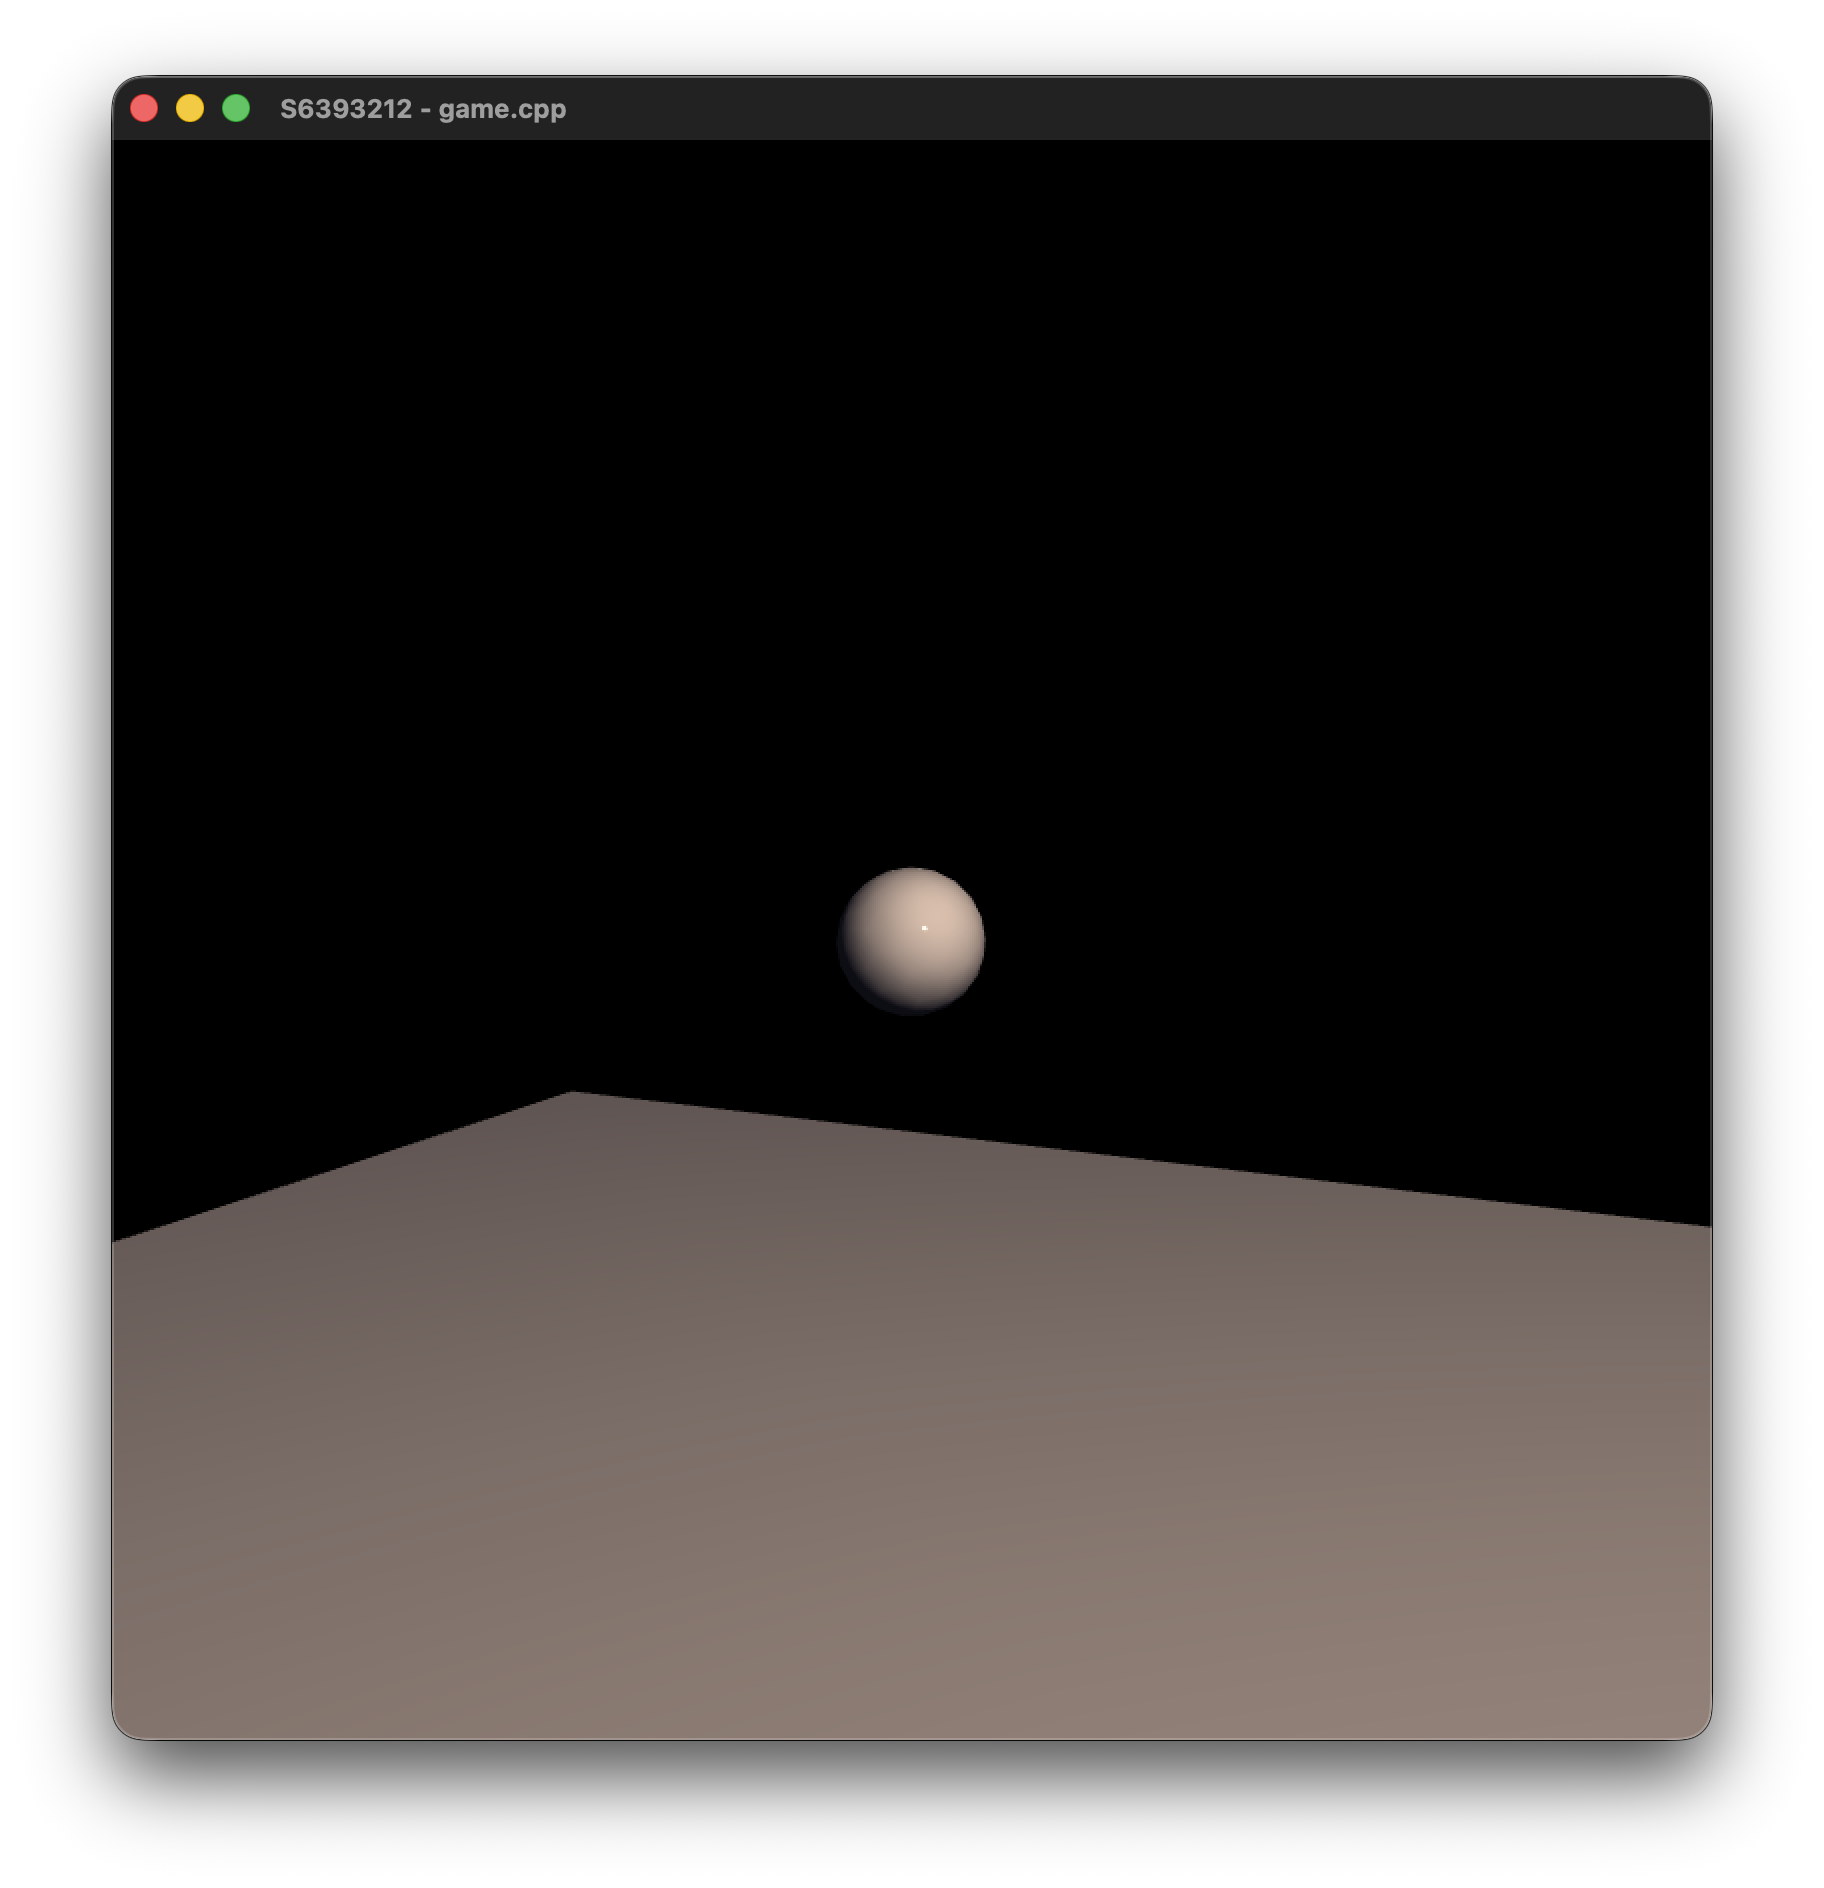
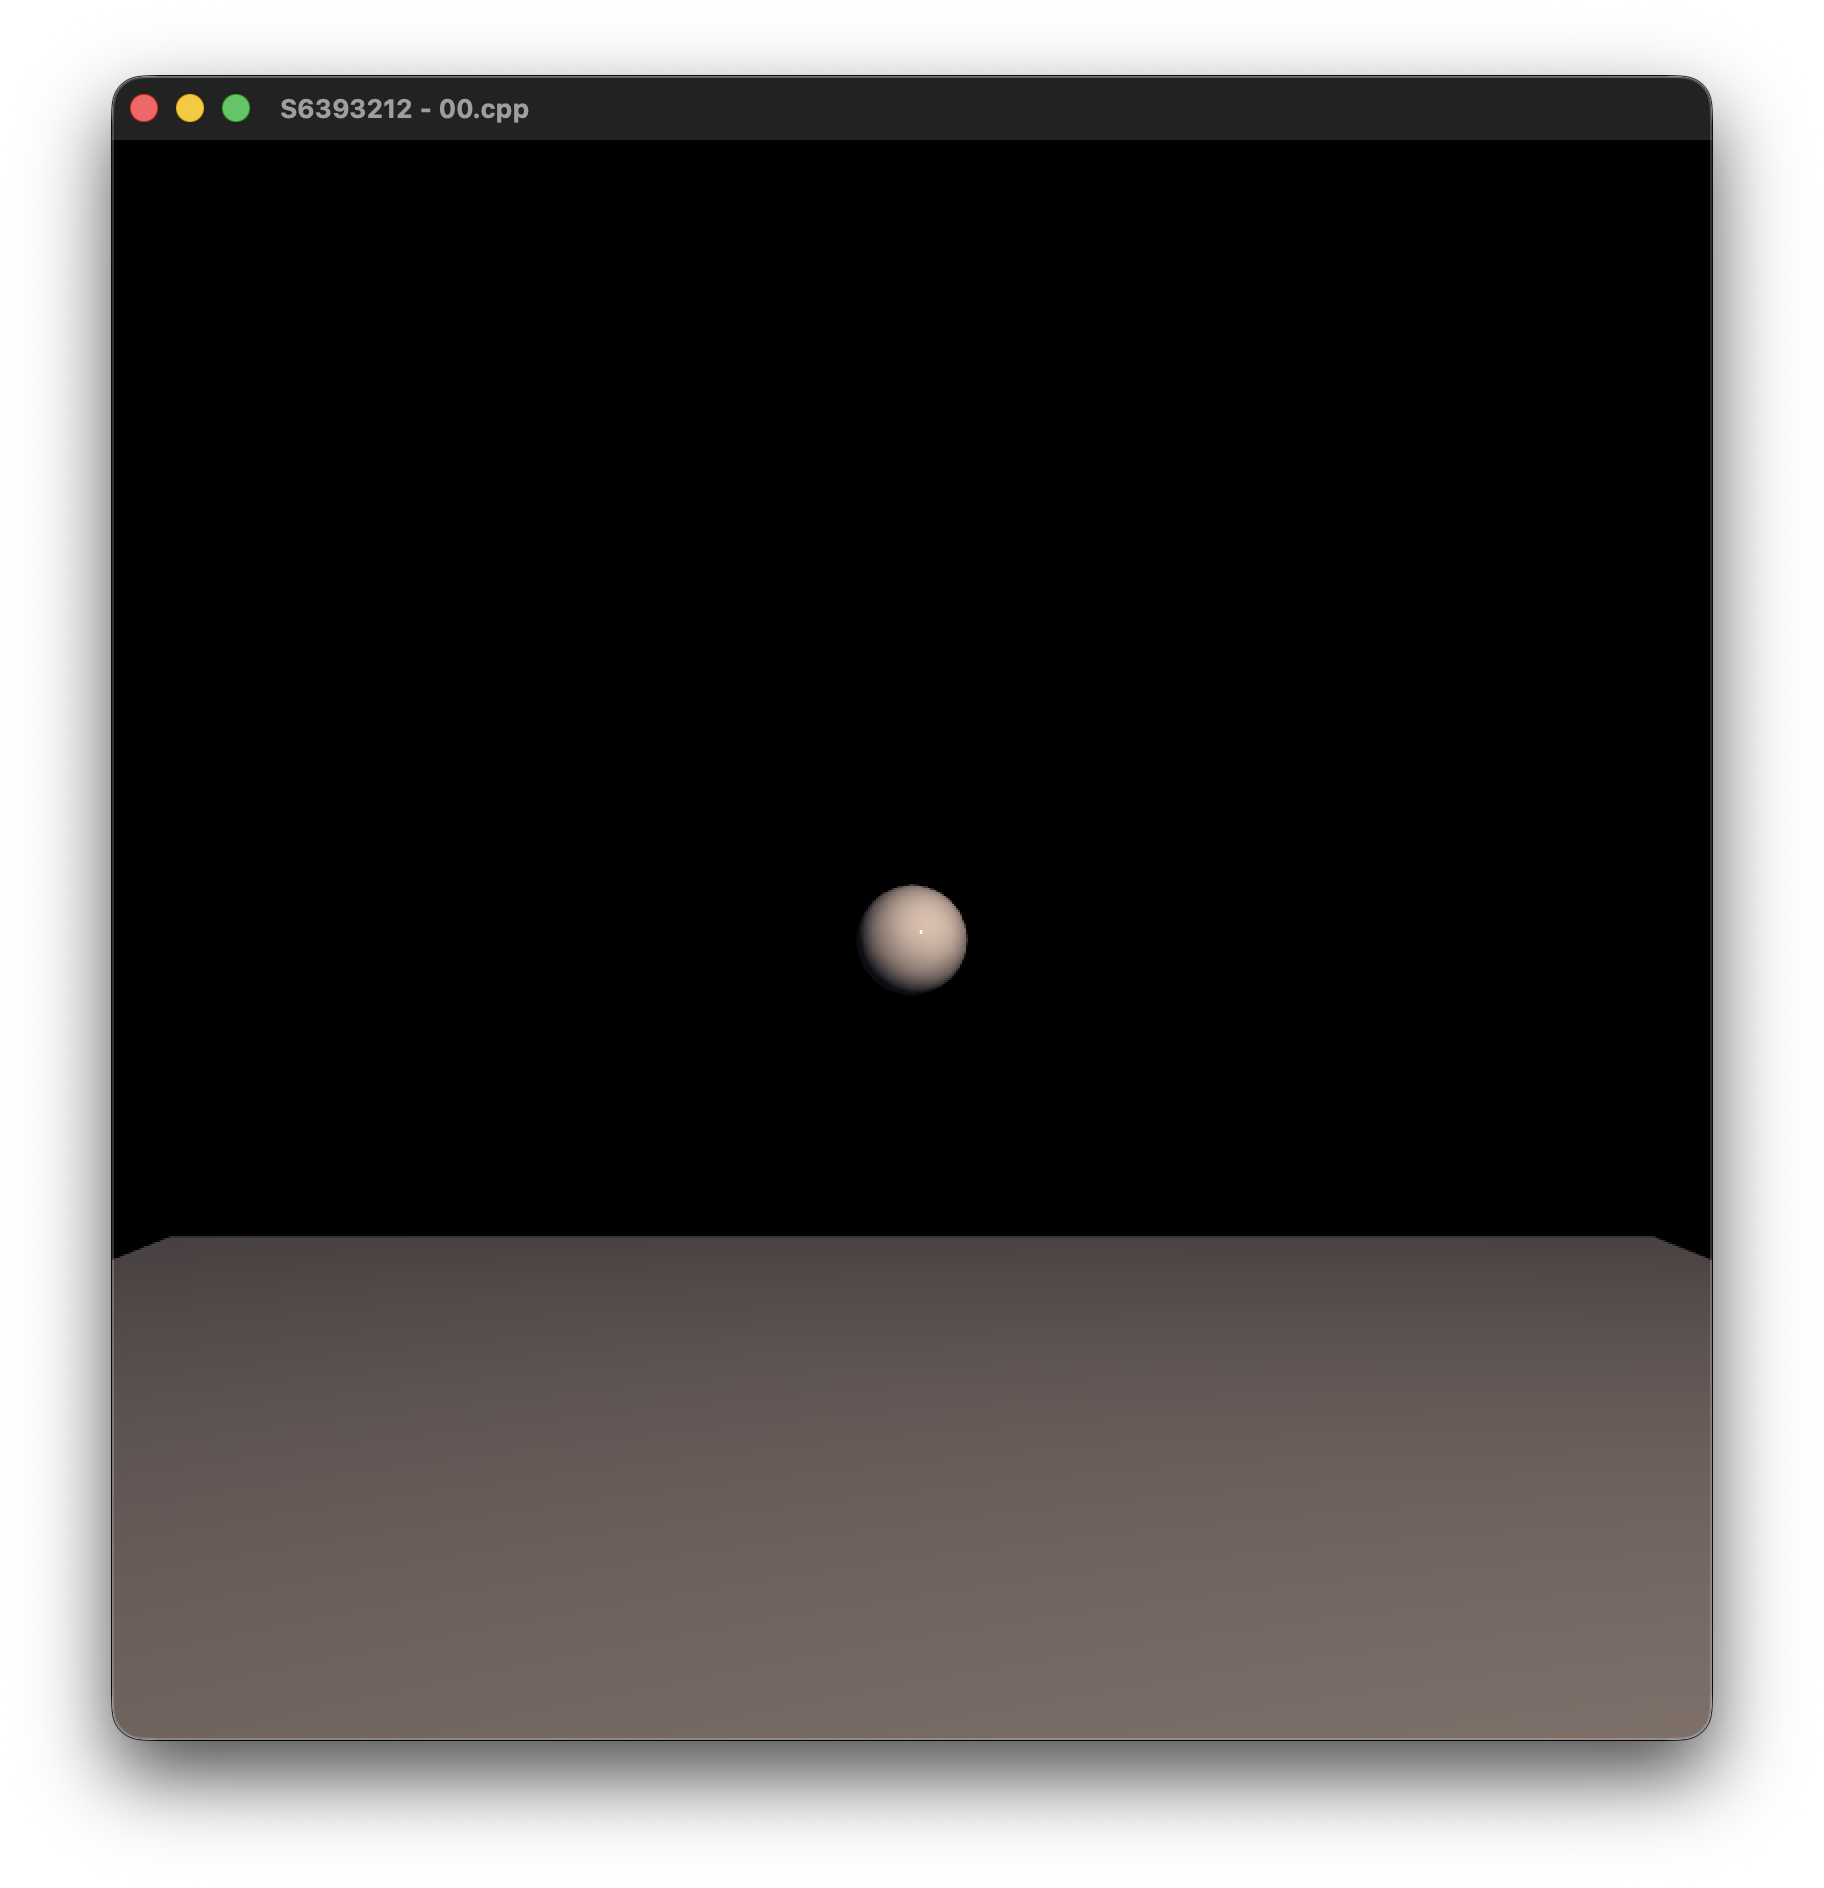
01

Changed region(s): [[0.0625, 0.5625, 0.9375, 0.7812], [0.4375, 0.4375, 0.5625, 0.5312], [0.25, 0.0312, 0.3125, 0.0625]]

diff --git a/01/01_game.cpp b/01/01_game.cpp
@@ -15,9 +15,6 @@
 #include "../resources/include/mesh.hh"
 #include "../resources/include/hotshaders.hh"
 #include "../resources/include/trackball.hh"
-#include "../resources/include/rawmouse.hh"
-
-
 
 /////////////////////////////
 // Window and OpenGL setup //
@@ -43,7 +40,7 @@ public:
 
         window = new sf::Window (
                                  sf::VideoMode({window_width, window_height}),
-                                 "S6393212 - 00.cpp",
+                                 "S6393212 - 01.cpp",
                                  sf::Style::Default,
                                  sf::State::Windowed,
                                  settings
@@ -162,15 +159,20 @@ private:
     // xyz, starting point of dynamic camera position
     glm::vec3 camera_pos = {0.0, 0.0, 2}; // xyz
     GLint camera_pos_loc; // xyz
+
     // Angles defining the in-place camera rotation
-    float phi_deg = 0.0;
-    float theta_deg = 0.0;
+    float yaw_deg = 0.0; // phi
+    float pitch_deg = 0.0; // theta
+    float roll_deg = 0.0;
 
     /** Camera movement **/
-    const float dolly_speed = 1.0;
-    bool dolly_on = false;
-    bool forward = false;
-    bool pan_tilt_on = false;
+    float move_speed = 1.0;
+    float rot_speed = 45.0;
+
+    float move_dir = 0.0;
+    float yaw_dir = 0.0;
+    float pitch_dir = 0.0;
+    float roll_dir = 0.0;
 
 public:
     Camera (fcg::Shaders& shaders)
@@ -191,54 +193,57 @@ public:
         view_projection ();
     }
 
-    bool pan_tilt_toggle ()
-    {
-        return pan_tilt_on = !pan_tilt_on;
-    }
+    // camera movement
+    void move (float delta_time)
+    {   
+        // Pitch and Yaw
+        yaw_deg += (yaw_dir * rot_speed * delta_time);
 
-    void pan_tilt (float dx, float dy)
-    {
-        if (!pan_tilt_on)
-            return;
+        pitch_deg += (pitch_dir * rot_speed * delta_time);
+        pitch_deg = pitch_deg > 90.0? 90.0 : pitch_deg;
+        pitch_deg = pitch_deg < -90.0? -90.0 : pitch_deg;
 
-        phi_deg += dx * 0.1;
-        theta_deg += dy * 0.1;
-        theta_deg = theta_deg > 90.0? 90.0 : theta_deg;
-        theta_deg = theta_deg < -90.0? -90.0 : theta_deg;
-        view_projection ();
-    }
+        // Roll
+        roll_deg += (roll_dir * rot_speed * delta_time);
 
-    void dolly_start (bool fw)
-    {
-        forward = fw;
-        dolly_on = true;
-    }
+        // Complete movement
+        float yaw_rad = glm::radians (yaw_deg);
+        float pitch_rad = glm::radians (pitch_deg);
 
-    void dolly_stop ()
-    {
-        dolly_on = false;
-    }
+        float ps = glm::sin (yaw_rad);
+        float pc = glm::cos (yaw_rad);
+        
+        float ts = glm::sin (pitch_rad);
+        float tc = glm::cos (pitch_rad);
+        
+        // this vector contains where the camera is pointing
+        glm::vec3 front_vector(
+            tc * -ps,
+            ts,
+            tc * pc
+        );
 
-    void dolly (float delta)
-    {
-        if (!dolly_on)
-            return;
-
-        float ds = forward? -dolly_speed : dolly_speed;
-        float r = delta * ds;
-
-        // 3D movement
-        float phi_rad = glm::radians (phi_deg);
-        float ps = glm::sin (phi_rad);
-        float pc = glm::cos (phi_rad);
-        float theta_rad = glm::radians (theta_deg);
-        float ts = glm::sin (theta_rad);
-        float tc = glm::cos (theta_rad);
-        camera_pos.x += r * tc * -ps;
-        camera_pos.z += r * tc * pc;
-        camera_pos.y += r * ts;
+        float delta_s = -move_dir * move_speed * delta_time;
+        // newPos = oldPos + front_vector * delta_s 
+        camera_pos += front_vector * delta_s;
 
         view_projection ();
+    }
+
+    void set_move_dir (float dir) {
+        move_dir = dir;
+    }
+
+    void set_yaw_dir (float dir) {
+        yaw_dir = dir;
+    }
+
+    void set_pitch_dir (float dir) {
+        pitch_dir = dir;
+    }
+
+    void set_roll_dir (float dir) {
+        roll_dir = dir;
     }
 
     void view_projection ()
@@ -251,8 +256,9 @@ public:
         float fcp = od + 4.0; // distance far clip plane
 
         // prepare rotations and translation matrices
-        glm::mat4 ry = fcg::rotation_y (phi_deg);
-        glm::mat4 rx = fcg::rotation_x (theta_deg);
+        glm::mat4 rz = fcg::rotation_z (roll_deg); // new roll matrix
+        glm::mat4 ry = fcg::rotation_y (yaw_deg);
+        glm::mat4 rx = fcg::rotation_x (pitch_deg);
         glm::mat4 t = fcg::translation (-cp.x, -cp.y, -cp.z);
 
         // prepare projection matrix
@@ -267,7 +273,7 @@ public:
                                  );
 
         // Compute VP matrix and update it
-        v = rx * ry * t;
+        v = rz * rx * ry * t;
         vp = pr * v;
         inv_v = glm::inverse (v);
 
@@ -503,9 +509,6 @@ private:
     }
 };
 
-
-
-
 ////////////////////
 // SFML Callbacks //
 ////////////////////
@@ -521,9 +524,30 @@ void handle (const sf::Event::KeyPressed& key, fcg::Shaders& shaders, Scene& sce
     switch (key.scancode) {
     case sf::Keyboard::Scancode::Escape:
         exit (0);
-    case sf::Keyboard::Scancode::Space:
-        scene.camera.dolly_start (!sf::Keyboard::isKeyPressed(sf::Keyboard::Key::LAlt));
-        return;
+    case sf::Keyboard::Scancode::LShift:
+        scene.camera.set_move_dir(1.0);
+        break;
+    case sf::Keyboard::Scancode::LControl:
+        scene.camera.set_move_dir(-1.0);
+        break;
+    case sf::Keyboard::Scancode::W:
+        scene.camera.set_pitch_dir(-1.0);
+        break;
+    case sf::Keyboard::Scancode::A:
+        scene.camera.set_yaw_dir(-1.0);
+        break;
+    case sf::Keyboard::Scancode::S:
+        scene.camera.set_pitch_dir(1.0);
+        break;
+    case sf::Keyboard::Scancode::D:
+        scene.camera.set_yaw_dir(1.0);
+        break;
+    case sf::Keyboard::Scancode::E:
+        scene.camera.set_roll_dir(1.0);
+        break;
+    case sf::Keyboard::Scancode::Q:
+        scene.camera.set_roll_dir(-1.0);
+        break;
     default:
         return;
     }
@@ -532,25 +556,32 @@ void handle (const sf::Event::KeyPressed& key, fcg::Shaders& shaders, Scene& sce
 void handle (const sf::Event::KeyReleased& key, fcg::Shaders& shaders, Scene& scene)
 {
     switch (key.scancode) {
-    case sf::Keyboard::Scancode::Space:
-        scene.camera.dolly_stop ();
-        return;
+    case sf::Keyboard::Scancode::LShift:
+        scene.camera.set_move_dir(0.0);
+        break;
+    case sf::Keyboard::Scancode::LControl:
+        scene.camera.set_move_dir(0.0);
+        break;
+    case sf::Keyboard::Scancode::W:
+        scene.camera.set_pitch_dir(0.0);
+        break;
+    case sf::Keyboard::Scancode::A:
+        scene.camera.set_yaw_dir(0.0);
+        break;
+    case sf::Keyboard::Scancode::S:
+        scene.camera.set_pitch_dir(0.0);
+        break;
+    case sf::Keyboard::Scancode::D:
+        scene.camera.set_yaw_dir(0.0);
+        break;
+    case sf::Keyboard::Scancode::E:
+        scene.camera.set_roll_dir(0.0);
+        break;
+    case sf::Keyboard::Scancode::Q:
+        scene.camera.set_roll_dir(0.0);
+        break;
     default:
         return;
-    }
-}
-
-void handle (sf::Vector2f delta, Camera& camera)
-{
-    camera.pan_tilt (delta.x, delta.y);
-}
-
-void handle (const sf::Event::MouseButtonPressed& mouse_pressed, Camera& camera, sf::Window& window)
-{
-    if (mouse_pressed.button == sf::Mouse::Button::Left) {
-        bool pan_tilt_on = camera.pan_tilt_toggle ();
-        window.setMouseCursorGrabbed (pan_tilt_on);
-        window.setMouseCursorVisible (!pan_tilt_on);
     }
 }
 
@@ -591,7 +622,7 @@ int main (int argc, char* argv[])
 
     sf::Clock clock;
     bool running = true;
-    fcg::RawMouse raw_mouse;
+
     while (running)
     {
         while (const std::optional event = window.pollEvent ())
@@ -604,15 +635,11 @@ int main (int argc, char* argv[])
                 handle (*key_pressed, shaders, scene);
             else if (const auto* key_released = event->getIf<sf::Event::KeyReleased> ())
                 handle (*key_released, shaders, scene);
-            else if (const auto* mouse_pressed = event->getIf<sf::Event::MouseButtonPressed> ())
-                handle (*mouse_pressed, scene.camera, window);
-            else if (const auto* mouse_moved_raw = event->getIf<sf::Event::MouseMovedRaw> ())
-                raw_mouse.event (*mouse_moved_raw);
         }
-        handle (raw_mouse.delta (), scene.camera);
 
         float elapsed = clock.restart().asSeconds();
-        scene.camera.dolly (elapsed);
+
+        scene.camera.move (elapsed);
         scene.lights.send_position_relative (scene.camera.inv_v);
 
         scene.draw ();

diff --git a/util/PDF/Relazione.md b/util/PDF/Relazione.md
@@ -13,3 +13,13 @@ Le operazioni principali sono state:
 - Modifica dei path, cartelle e sistema di build.
 
 ![00](../00.png)
+
+## Tappa 01: Nuovi controlli per il movimento della telecamera
+
+In questa tappa ho cambiato il paradigma con cui si controlla la telecamera, dal movimento del mouse si e' passato ad un controllo a sei gradi di liberta' da tastiera:
+
+- WASD per Pitch e Yaw (pan_tilt)
+- EQ per il Roll
+- LShift e LControl per avanzare o indietreggiare
+  I movimenti, che per ora si basano ancora sugli angoli di eulero, risultano indipendenti fra loro e dall'ambiente circostante.
+  E' facile notare alcune limitazioni di questa scelta, ad esempio il Gimbal Lock previene la possibilita' di eseguire una rotazione pitch di 360'.
